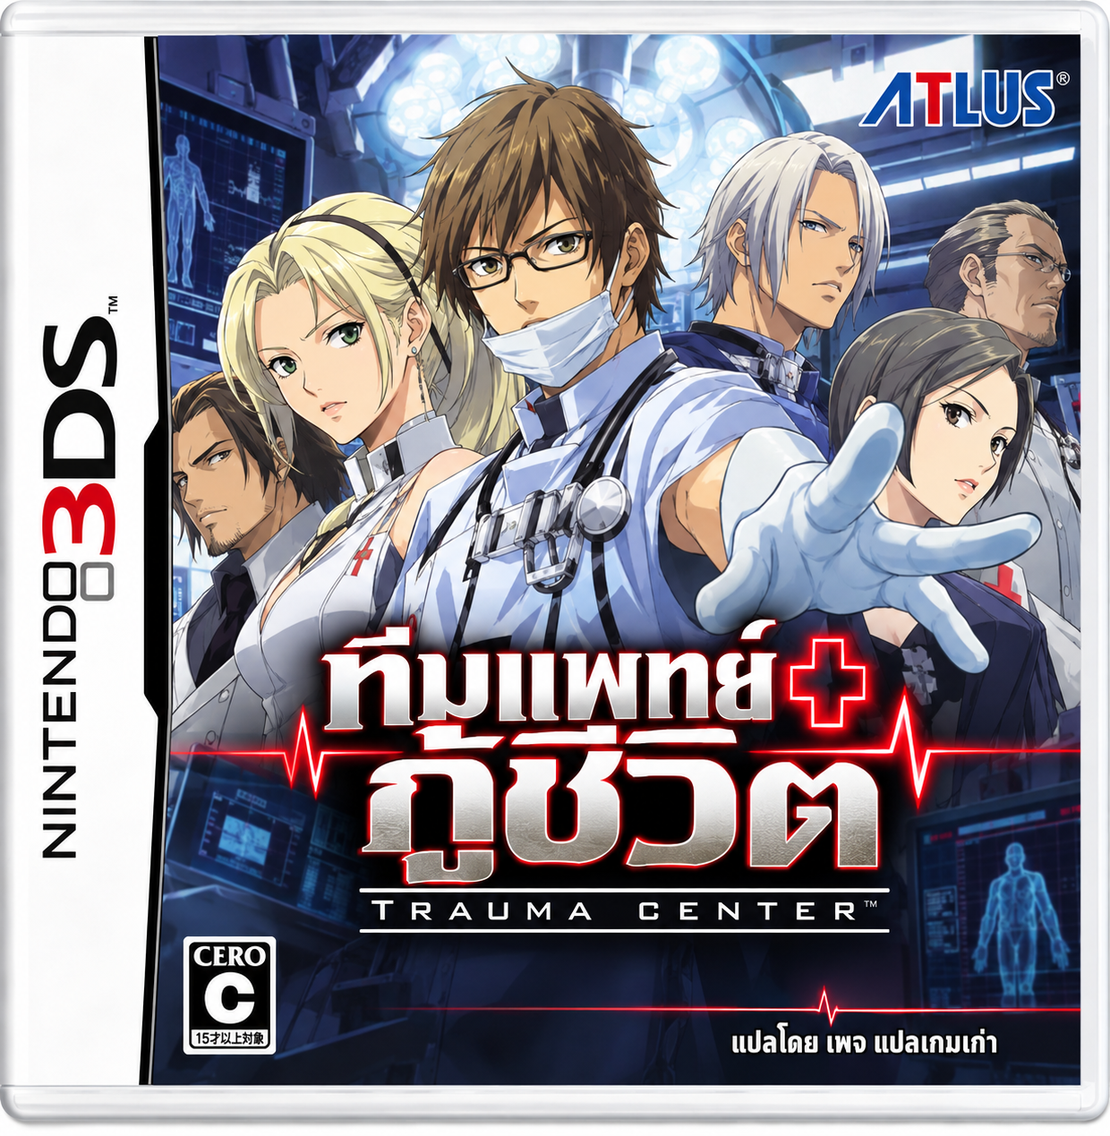
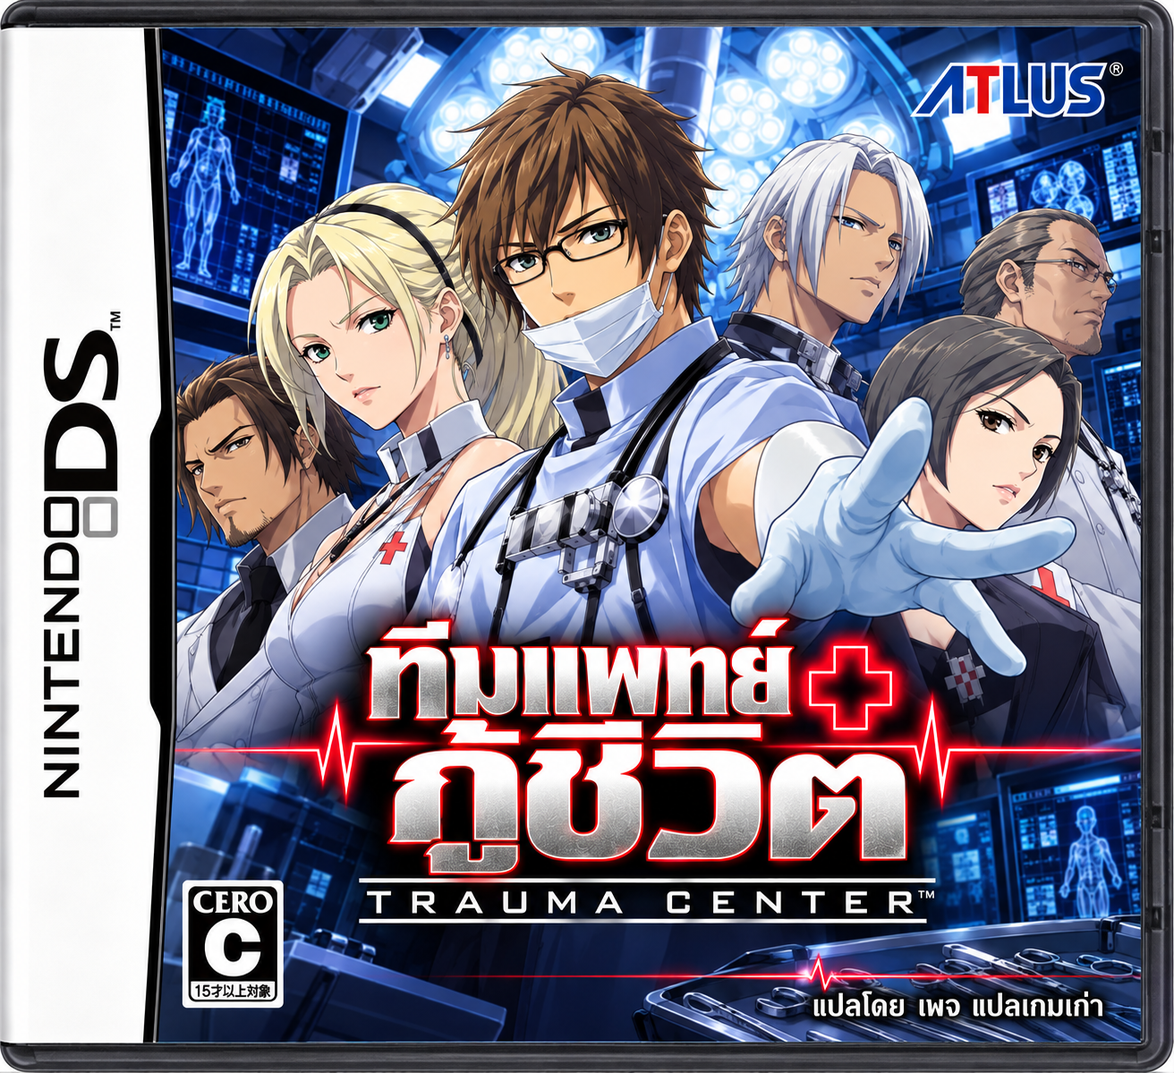
Update Trauma Center cover artwork

diff --git a/index.html b/index.html
@@ -1039,7 +1039,7 @@ function renderPlatformTabs() {
 
 
 
-const PGK_RELEASES = {"bravely-default-thai-build003":{"date":"2026-10-27T18:16:32+07:00","kind":"อัปเดตชุดแจก · ภาษาไทย v2.0","note":"แพตช์ภาษาไทย v2.0 พร้อมแปะแพตช์ .3ds USA บนเว็บและดาวน์โหลด Luma · รวมการแก้ Party Chat และ Tutorial · ใช้ภาพปกจากเพจแปลเกมเก่า · ยังไม่ยืนยันเครื่องจริงหรือทุกฉาก"},"hexyz-force-thai-v1":{"date":"2026-10-27T16:42:34+07:00","kind":"เกมใหม่ · ภาษาไทย v1.0","note":"แปลโดยเพจแปลเกมเก่า · บทสนทนา 8,291 บรรทัด เมนู 2,832 รายการ คู่มือ 28 หน้า และซับไทย 160 ช่วงในวิดีโอ 14 ไฟล์ · แก้สระอำและระยะชื่อ · แปะแพตช์ออนไลน์จาก Undub v1.2b · ยังไม่ยืนยันการเล่นจบทุกเส้นทาง"},"claire-extended-cut-thai-test001":{"date":"2026-10-26T00:13:33+07:00","kind":"เกมใหม่ · ภาษาไทย · TEST 001","note":"เพิ่มชุด ZIP สำหรับ rePatch 17 ไฟล์ (PCSE00815 USA 01.00) พร้อมหน้าเลือกโฟลเดอร์ PCSE00815 เพื่อจัดไฟล์และดาวน์โหลด · ไม่รวมเกมต้นฉบับ · ยังไม่มีผลยืนยันการติดตั้งหรือเล่นบน Vita/Vita3K"},"rondo-of-ruin-thai-20261025":{"date":"2026-10-25T23:22:19+07:00","kind":"เกมใหม่ · ภาษาไทย · รุ่นทดสอบ","note":"ปรับหน้าให้แปะแพตช์ผ่านเว็บและนำลิงก์ดาวน์โหลดไฟล์แพตช์ออก พร้อมภาพปก · รายงานตรวจข้อความ 2,504 กล่อง ไม่มี ERROR/WARN · ใช้ Rondo of Ruin v1.1.0 ฉบับ Rondo of Blood Richter (USA) ตาม SHA-256 เท่านั้น · ยังไม่ยืนยันการเล่นจนจบ"},"gta-chinatown-wars-thai-v1":{"date":"2026-10-25T20:45:25.000+07:00","kind":"เกมใหม่ · ภาษาไทย v1.0","note":"แปลข้อความอังกฤษ 5,879 รายการ เพิ่มฟอนต์ไทยและภาพปก · รองรับ ROM US YGXE revision 0 ตาม SHA-256 ที่ระบุ · ทดสอบใน melonDS ถึงหน้าบันทึกอัตโนมัติ ยังไม่ได้ทดสอบเล่นจนจบ"},"pokemon-conquest-ultimate-thai-404":{"date":"2026-10-25T12:18:17+07:00","kind":"แก้ระบบแพตช์ · Ultimate 4.0.4","note":"แก้ข้อผิดพลาดแปะแพตช์ออนไลน์ code -17710 โดยสร้าง XDELTA ที่เข้ากับตัวถอดรหัสเว็บ · ตรวจผลลัพธ์ตรงกับ ROM ไทยรุ่นล่าสุด · คำแปลและฟอนต์คงรุ่นเดิม ยังไม่ได้ทดสอบเล่นจบ"},"dawn-of-dissonance-thai-v1":{"date":"2026-10-25T08:18:59+07:00","kind":"อัปเดตแพตช์ · v1.0","note":"เปิดแพตช์ภาษาไทยสองเวอร์ชันในหน้าเดียว: Normal สีแดง และ Belnades Blood Edition สีน้ำเงิน พร้อมคำอธิบายและบทสนทนาไทย"},"dqm-joker-2-professional-thai-v1":{"date":"2026-10-24T18:25:36+07:00","kind":"อัปเดตระบบแปะแพตช์ · v1.0","note":"หน้าเกมใช้ระบบแปะแพตช์ออนไลน์อย่างเดียว · เลือก ROM ญี่ปุ่น B2JJ แล้วรอระบบตรวจและแปะในอุปกรณ์ · ทดสอบหน้าเว็บจริงแล้ว ยังไม่ได้ทดสอบเล่นจนจบ"},"dqm-joker-thai-v1":{"date":"2026-10-24T10:04:24+07:00","kind":"เกมใหม่ · v1.0 รุ่นทดสอบ","note":"เปิดแพตช์ไทยออนไลน์ พร้อมปกที่ผู้แปลเลือก · เพิ่มบทสนทนา ฟอนต์และเมนูบางส่วน แก้สระ า ในเครดิตและเพิ่มพื้นหลังชื่อเกมให้อ่านชัด · ยังมี UI อังกฤษและยังไม่ได้ทดสอบเล่นจบ"},"bravely-second-thai-build009":{"date":"2026-10-23T09:04:50+07:00","kind":"ปรับชุด Luma · build009 · รุ่นทดสอบ","note":"จัด ZIP Luma ให้เหลือโฟลเดอร์ luma และ README_TH.txt พร้อมคู่มือติดตั้งโดยเฉพาะ · ไฟล์ม็อดภายในคงเดิมทุกไฟล์ · แพตช์ออนไลน์ผ่านการทดสอบดาวน์โหลดแล้ว ยังไม่ได้ยืนยันการเล่นบนเครื่องจริง"},"dementium-the-ward-thai-v1":{"date":"2026-10-24T10:31:11+07:00","kind":"อัปเดตแพตช์ · v1.1 · ผู้ใช้ทดสอบจุดแก้ผ่าน","note":"แก้แถบสีรอบหน้าแตะเพื่อเริ่มและหน้าคำเตือน โดยคงข้อความไทย · แก้หน้าแผนที่และสมุดภาพเพี้ยน · ผู้ใช้ยืนยันใน melonDS ว่าทั้งสี่หน้าปกติแล้ว ยังไม่ยืนยันเล่นจบ"},"dementium-ii-thai-v1":{"date":"2026-10-23T16:15:00Z","kind":"เกมใหม่","note":"เปิดแพตช์ภาษาไทย v1.0 · Dementium II สำหรับ Nintendo DS (USA)","commit":"22cb27b7"},"soltrigger":{"date":"2026-10-23T01:01:58.985675+00:00","kind":"แก้ระบบแพตช์","note":"ลดการใช้ RAM ขณะแพตช์บนมือถือ พร้อมตรวจไฟล์ก่อนดาวน์โหลด"},"lunar-knights-thai-v1":{"date":"2026-10-22T06:24:30Z","kind":"แก้ระบบแพตช์","note":"แก้ค่า SHA-256 ต้นฉบับและเลือกตัวถอดรหัส XDELTA ให้ถูกต้อง","commit":"8f91b130"},"serenade-under-the-moon-thai-v1":{"date":"2026-10-22T04:20:20Z","kind":"เกมใหม่","note":"เปิดหน้าแพตช์ภาษาไทย v1.0","commit":"1d293c3d"},"portrait-of-ruin-thai-v1":{"date":"2026-10-22T01:52:30Z","kind":"อัปเดตแพตช์","note":"v1.1 แก้ฟอนต์ชื่อและรายการไอเทม","commit":"f581225f"},"yoko-of-sorrow":{"date":"2026-10-21T09:45:23Z","kind":"เกมใหม่","note":"เปิดแพตช์ BPS ภาษาไทยบนเว็บ","commit":"d2a48577"},"the-count-lucanor":{"date":"2026-10-21T08:45:40Z","kind":"เกมใหม่","note":"เปิดชุด rePatch รุ่นทดสอบสำหรับ PS Vita","commit":"b7b89876"},"radiant-historia-thai-v1":{"date":"2026-10-21T02:58:58Z","kind":"เกมใหม่","note":"เปิดหน้าแพตช์ภาษาไทย","commit":"6a021553"},"resident-evil-deadly-silence-thai":{"date":"2026-10-19T15:17:12Z","kind":"เกมใหม่","note":"เปิดหน้าแพตช์ภาษาไทย","commit":"00d8592e"},"ragnarok-tactics":{"date":"2026-10-18T11:16:48Z","kind":"อัปเดตแพตช์","note":"รุ่นทดสอบ v1.4.2 คืนรูปแบบ UI","commit":"c307ce98"},"forbidden-siren-2-v1":{"date":"2026-10-18T08:04:31Z","kind":"เกมใหม่","note":"เปิดหน้าแพตช์ภาษาไทย v1.0","commit":"f5a3ac94"},"tales-of-destiny-2-thai-v1":{"date":"2026-10-18T07:23:28Z","kind":"เกมใหม่","note":"เพิ่มแพตช์ภาษาไทยรุ่นเบต้า","commit":"1fe4173c"},"black-rock-shooter-v1":{"date":"2026-10-16T10:06:23Z","kind":"แก้ระบบแพตช์","note":"ใช้พื้นที่ผลลัพธ์ชั่วคราวแยกจากไฟล์ต้นฉบับ","commit":"2e22aa91"},"masou-kishin-iii":{"date":"2026-10-16T01:36:36Z","kind":"เกมใหม่","note":"เปิดตัวสร้างแพตช์จากโฟลเดอร์และ rePatch v1.0","commit":"14991dfe"},"persona-q2-thai-v1":{"date":"2026-10-14T20:09:52Z","kind":"เกมใหม่","note":"เปิดแพตช์ภาษาไทย v1.0","commit":"20fdceaf"},"tales":{"date":"2026-10-14T15:16:20Z","kind":"แก้ระบบแพตช์","note":"แก้ความเข้ากันได้ของแพตช์ v1.5 กับตัวถอดรหัส","commit":"21f103ab"},"valkyrie-profile-2":{"date":"2026-10-14T12:14:33Z","kind":"เกมใหม่","note":"เปิดรุ่น TEST 005","commit":"4417a4d0"},"order-of-ecclesia":{"date":"2026-10-27T17:38:37+07:00","kind":"อัปเดตแพตช์ · USA v1.0.4","note":"แก้ชื่อมอนสเตอร์ในหน้า ENEMIES ให้แสดงภาษาไทยครบ 121 รายการ โดยปรับการเข้ารหัสเป็นฟอนต์ 8×8 และเพิ่ม glyph ที่ขาด 38 ช่อง · ใช้ ROM USA Undub รหัส YR9E ตาม SHA-256 เดิม · ทดสอบแปะแพตช์และดาวน์โหลดผ่านเว็บแล้ว ไฟล์ 64 MiB มี SHA-256 ตรงกับเป้าหมาย · ยังไม่ได้ทดสอบในเกม"},"kuon-thai-v2":{"date":"2026-10-13T10:54:52Z","kind":"แก้ระบบแพตช์","note":"แก้การส่งไฟล์แพตช์บีบอัด","commit":"dd6b6244"},"harmony-of-dissonance":{"date":"2026-10-25T09:07:25+07:00","kind":"อัปเดตแพตช์ · eventfix v2","note":"คืนคำสั่งเหตุการณ์ 66 จุดใน 15 บทสนทนา พร้อมเติมบทพูดที่ขาดและรักษาลำดับต้นฉบับ · ผู้ใช้ทดสอบแล้วว่าบอสขยับและเนื้อเรื่องเดินต่อได้ · ยังไม่ยืนยันการเล่นจบทุกเส้นทาง"},"trauma-center-under-the-knife-thai-v1":{"date":"2026-10-28T10:08:46+07:00","kind":"เกมใหม่ · ภาษาไทย · รุ่นทดสอบ","note":"เพิ่มคำแปลฉาก 2,617 จาก 2,651 รายการ พร้อมข้อความชาร์ต 36 รายการและฟอนต์ไทย · แปะแพตช์ออนไลน์จาก ROM USA [UNDUB] ที่ตรวจ SHA-256 ตรงกัน · ยังไม่ผ่านการทดสอบใน emulator และยังมีข้อความหรือภาพบางส่วน/เครดิตที่คงต้นฉบับ"}};
+const PGK_RELEASES = {"bravely-default-thai-build003":{"date":"2026-10-27T18:16:32+07:00","kind":"อัปเดตชุดแจก · ภาษาไทย v2.0","note":"แพตช์ภาษาไทย v2.0 พร้อมแปะแพตช์ .3ds USA บนเว็บและดาวน์โหลด Luma · รวมการแก้ Party Chat และ Tutorial · ใช้ภาพปกจากเพจแปลเกมเก่า · ยังไม่ยืนยันเครื่องจริงหรือทุกฉาก"},"hexyz-force-thai-v1":{"date":"2026-10-27T16:42:34+07:00","kind":"เกมใหม่ · ภาษาไทย v1.0","note":"แปลโดยเพจแปลเกมเก่า · บทสนทนา 8,291 บรรทัด เมนู 2,832 รายการ คู่มือ 28 หน้า และซับไทย 160 ช่วงในวิดีโอ 14 ไฟล์ · แก้สระอำและระยะชื่อ · แปะแพตช์ออนไลน์จาก Undub v1.2b · ยังไม่ยืนยันการเล่นจบทุกเส้นทาง"},"claire-extended-cut-thai-test001":{"date":"2026-10-26T00:13:33+07:00","kind":"เกมใหม่ · ภาษาไทย · TEST 001","note":"เพิ่มชุด ZIP สำหรับ rePatch 17 ไฟล์ (PCSE00815 USA 01.00) พร้อมหน้าเลือกโฟลเดอร์ PCSE00815 เพื่อจัดไฟล์และดาวน์โหลด · ไม่รวมเกมต้นฉบับ · ยังไม่มีผลยืนยันการติดตั้งหรือเล่นบน Vita/Vita3K"},"rondo-of-ruin-thai-20261025":{"date":"2026-10-25T23:22:19+07:00","kind":"เกมใหม่ · ภาษาไทย · รุ่นทดสอบ","note":"ปรับหน้าให้แปะแพตช์ผ่านเว็บและนำลิงก์ดาวน์โหลดไฟล์แพตช์ออก พร้อมภาพปก · รายงานตรวจข้อความ 2,504 กล่อง ไม่มี ERROR/WARN · ใช้ Rondo of Ruin v1.1.0 ฉบับ Rondo of Blood Richter (USA) ตาม SHA-256 เท่านั้น · ยังไม่ยืนยันการเล่นจนจบ"},"gta-chinatown-wars-thai-v1":{"date":"2026-10-25T20:45:25.000+07:00","kind":"เกมใหม่ · ภาษาไทย v1.0","note":"แปลข้อความอังกฤษ 5,879 รายการ เพิ่มฟอนต์ไทยและภาพปก · รองรับ ROM US YGXE revision 0 ตาม SHA-256 ที่ระบุ · ทดสอบใน melonDS ถึงหน้าบันทึกอัตโนมัติ ยังไม่ได้ทดสอบเล่นจนจบ"},"pokemon-conquest-ultimate-thai-404":{"date":"2026-10-25T12:18:17+07:00","kind":"แก้ระบบแพตช์ · Ultimate 4.0.4","note":"แก้ข้อผิดพลาดแปะแพตช์ออนไลน์ code -17710 โดยสร้าง XDELTA ที่เข้ากับตัวถอดรหัสเว็บ · ตรวจผลลัพธ์ตรงกับ ROM ไทยรุ่นล่าสุด · คำแปลและฟอนต์คงรุ่นเดิม ยังไม่ได้ทดสอบเล่นจบ"},"dawn-of-dissonance-thai-v1":{"date":"2026-10-25T08:18:59+07:00","kind":"อัปเดตแพตช์ · v1.0","note":"เปิดแพตช์ภาษาไทยสองเวอร์ชันในหน้าเดียว: Normal สีแดง และ Belnades Blood Edition สีน้ำเงิน พร้อมคำอธิบายและบทสนทนาไทย"},"dqm-joker-2-professional-thai-v1":{"date":"2026-10-24T18:25:36+07:00","kind":"อัปเดตระบบแปะแพตช์ · v1.0","note":"หน้าเกมใช้ระบบแปะแพตช์ออนไลน์อย่างเดียว · เลือก ROM ญี่ปุ่น B2JJ แล้วรอระบบตรวจและแปะในอุปกรณ์ · ทดสอบหน้าเว็บจริงแล้ว ยังไม่ได้ทดสอบเล่นจนจบ"},"dqm-joker-thai-v1":{"date":"2026-10-24T10:04:24+07:00","kind":"เกมใหม่ · v1.0 รุ่นทดสอบ","note":"เปิดแพตช์ไทยออนไลน์ พร้อมปกที่ผู้แปลเลือก · เพิ่มบทสนทนา ฟอนต์และเมนูบางส่วน แก้สระ า ในเครดิตและเพิ่มพื้นหลังชื่อเกมให้อ่านชัด · ยังมี UI อังกฤษและยังไม่ได้ทดสอบเล่นจบ"},"bravely-second-thai-build009":{"date":"2026-10-23T09:04:50+07:00","kind":"ปรับชุด Luma · build009 · รุ่นทดสอบ","note":"จัด ZIP Luma ให้เหลือโฟลเดอร์ luma และ README_TH.txt พร้อมคู่มือติดตั้งโดยเฉพาะ · ไฟล์ม็อดภายในคงเดิมทุกไฟล์ · แพตช์ออนไลน์ผ่านการทดสอบดาวน์โหลดแล้ว ยังไม่ได้ยืนยันการเล่นบนเครื่องจริง"},"dementium-the-ward-thai-v1":{"date":"2026-10-24T10:31:11+07:00","kind":"อัปเดตแพตช์ · v1.1 · ผู้ใช้ทดสอบจุดแก้ผ่าน","note":"แก้แถบสีรอบหน้าแตะเพื่อเริ่มและหน้าคำเตือน โดยคงข้อความไทย · แก้หน้าแผนที่และสมุดภาพเพี้ยน · ผู้ใช้ยืนยันใน melonDS ว่าทั้งสี่หน้าปกติแล้ว ยังไม่ยืนยันเล่นจบ"},"dementium-ii-thai-v1":{"date":"2026-10-23T16:15:00Z","kind":"เกมใหม่","note":"เปิดแพตช์ภาษาไทย v1.0 · Dementium II สำหรับ Nintendo DS (USA)","commit":"22cb27b7"},"soltrigger":{"date":"2026-10-23T01:01:58.985675+00:00","kind":"แก้ระบบแพตช์","note":"ลดการใช้ RAM ขณะแพตช์บนมือถือ พร้อมตรวจไฟล์ก่อนดาวน์โหลด"},"lunar-knights-thai-v1":{"date":"2026-10-22T06:24:30Z","kind":"แก้ระบบแพตช์","note":"แก้ค่า SHA-256 ต้นฉบับและเลือกตัวถอดรหัส XDELTA ให้ถูกต้อง","commit":"8f91b130"},"serenade-under-the-moon-thai-v1":{"date":"2026-10-22T04:20:20Z","kind":"เกมใหม่","note":"เปิดหน้าแพตช์ภาษาไทย v1.0","commit":"1d293c3d"},"portrait-of-ruin-thai-v1":{"date":"2026-10-22T01:52:30Z","kind":"อัปเดตแพตช์","note":"v1.1 แก้ฟอนต์ชื่อและรายการไอเทม","commit":"f581225f"},"yoko-of-sorrow":{"date":"2026-10-21T09:45:23Z","kind":"เกมใหม่","note":"เปิดแพตช์ BPS ภาษาไทยบนเว็บ","commit":"d2a48577"},"the-count-lucanor":{"date":"2026-10-21T08:45:40Z","kind":"เกมใหม่","note":"เปิดชุด rePatch รุ่นทดสอบสำหรับ PS Vita","commit":"b7b89876"},"radiant-historia-thai-v1":{"date":"2026-10-21T02:58:58Z","kind":"เกมใหม่","note":"เปิดหน้าแพตช์ภาษาไทย","commit":"6a021553"},"resident-evil-deadly-silence-thai":{"date":"2026-10-19T15:17:12Z","kind":"เกมใหม่","note":"เปิดหน้าแพตช์ภาษาไทย","commit":"00d8592e"},"ragnarok-tactics":{"date":"2026-10-18T11:16:48Z","kind":"อัปเดตแพตช์","note":"รุ่นทดสอบ v1.4.2 คืนรูปแบบ UI","commit":"c307ce98"},"forbidden-siren-2-v1":{"date":"2026-10-18T08:04:31Z","kind":"เกมใหม่","note":"เปิดหน้าแพตช์ภาษาไทย v1.0","commit":"f5a3ac94"},"tales-of-destiny-2-thai-v1":{"date":"2026-10-18T07:23:28Z","kind":"เกมใหม่","note":"เพิ่มแพตช์ภาษาไทยรุ่นเบต้า","commit":"1fe4173c"},"black-rock-shooter-v1":{"date":"2026-10-16T10:06:23Z","kind":"แก้ระบบแพตช์","note":"ใช้พื้นที่ผลลัพธ์ชั่วคราวแยกจากไฟล์ต้นฉบับ","commit":"2e22aa91"},"masou-kishin-iii":{"date":"2026-10-16T01:36:36Z","kind":"เกมใหม่","note":"เปิดตัวสร้างแพตช์จากโฟลเดอร์และ rePatch v1.0","commit":"14991dfe"},"persona-q2-thai-v1":{"date":"2026-10-14T20:09:52Z","kind":"เกมใหม่","note":"เปิดแพตช์ภาษาไทย v1.0","commit":"20fdceaf"},"tales":{"date":"2026-10-14T15:16:20Z","kind":"แก้ระบบแพตช์","note":"แก้ความเข้ากันได้ของแพตช์ v1.5 กับตัวถอดรหัส","commit":"21f103ab"},"valkyrie-profile-2":{"date":"2026-10-14T12:14:33Z","kind":"เกมใหม่","note":"เปิดรุ่น TEST 005","commit":"4417a4d0"},"order-of-ecclesia":{"date":"2026-10-27T17:38:37+07:00","kind":"อัปเดตแพตช์ · USA v1.0.4","note":"แก้ชื่อมอนสเตอร์ในหน้า ENEMIES ให้แสดงภาษาไทยครบ 121 รายการ โดยปรับการเข้ารหัสเป็นฟอนต์ 8×8 และเพิ่ม glyph ที่ขาด 38 ช่อง · ใช้ ROM USA Undub รหัส YR9E ตาม SHA-256 เดิม · ทดสอบแปะแพตช์และดาวน์โหลดผ่านเว็บแล้ว ไฟล์ 64 MiB มี SHA-256 ตรงกับเป้าหมาย · ยังไม่ได้ทดสอบในเกม"},"kuon-thai-v2":{"date":"2026-10-13T10:54:52Z","kind":"แก้ระบบแพตช์","note":"แก้การส่งไฟล์แพตช์บีบอัด","commit":"dd6b6244"},"harmony-of-dissonance":{"date":"2026-10-25T09:07:25+07:00","kind":"อัปเดตแพตช์ · eventfix v2","note":"คืนคำสั่งเหตุการณ์ 66 จุดใน 15 บทสนทนา พร้อมเติมบทพูดที่ขาดและรักษาลำดับต้นฉบับ · ผู้ใช้ทดสอบแล้วว่าบอสขยับและเนื้อเรื่องเดินต่อได้ · ยังไม่ยืนยันการเล่นจบทุกเส้นทาง"},"trauma-center-under-the-knife-thai-v1":{"date":"2026-10-28T11:09:20+07:00","kind":"อัปเดตภาพปก · ภาษาไทย รุ่นทดสอบ","note":"เปลี่ยนเป็นภาพปกใหม่ตามภาพที่ผู้ใช้ส่ง · แพตช์ภาษาไทยและขอบเขตคำแปลยังเป็นรุ่นทดสอบตามรายละเอียดเดิม"}};
 function pgkNews(g){const n=PGK_RELEASES[g.id];if(!n)return '<div class="pgk-news">เกมในคลังเดิม · ยังไม่ระบุวันที่เผยแพร่</div>';const d=new Date(n.date).toLocaleDateString('th-TH',{timeZone:'Asia/Bangkok',day:'numeric',month:'short',year:'numeric'});return `<div class="pgk-news"><strong>${n.kind}</strong><time datetime="${n.date}">${d}</time><p>${n.note}</p></div>`;}
 
 function renderGrid() {
